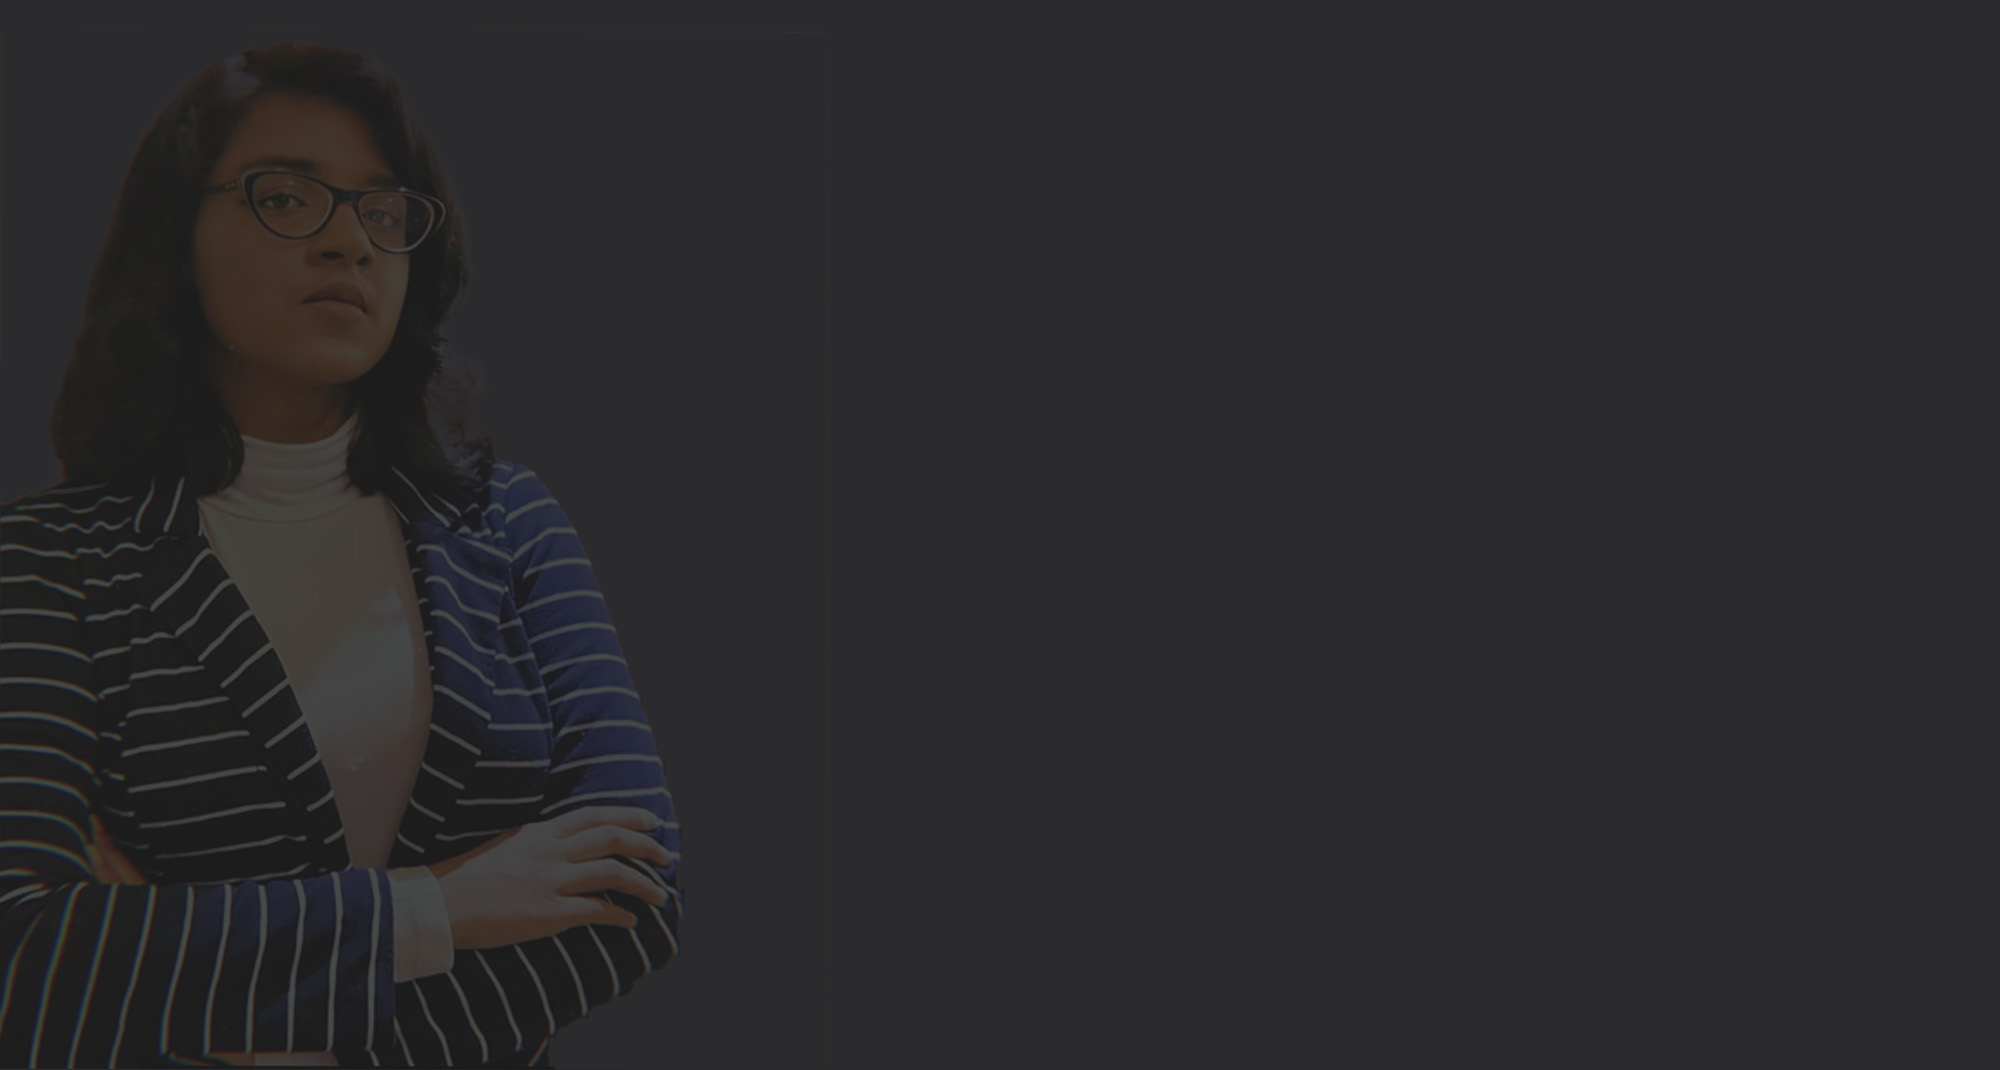
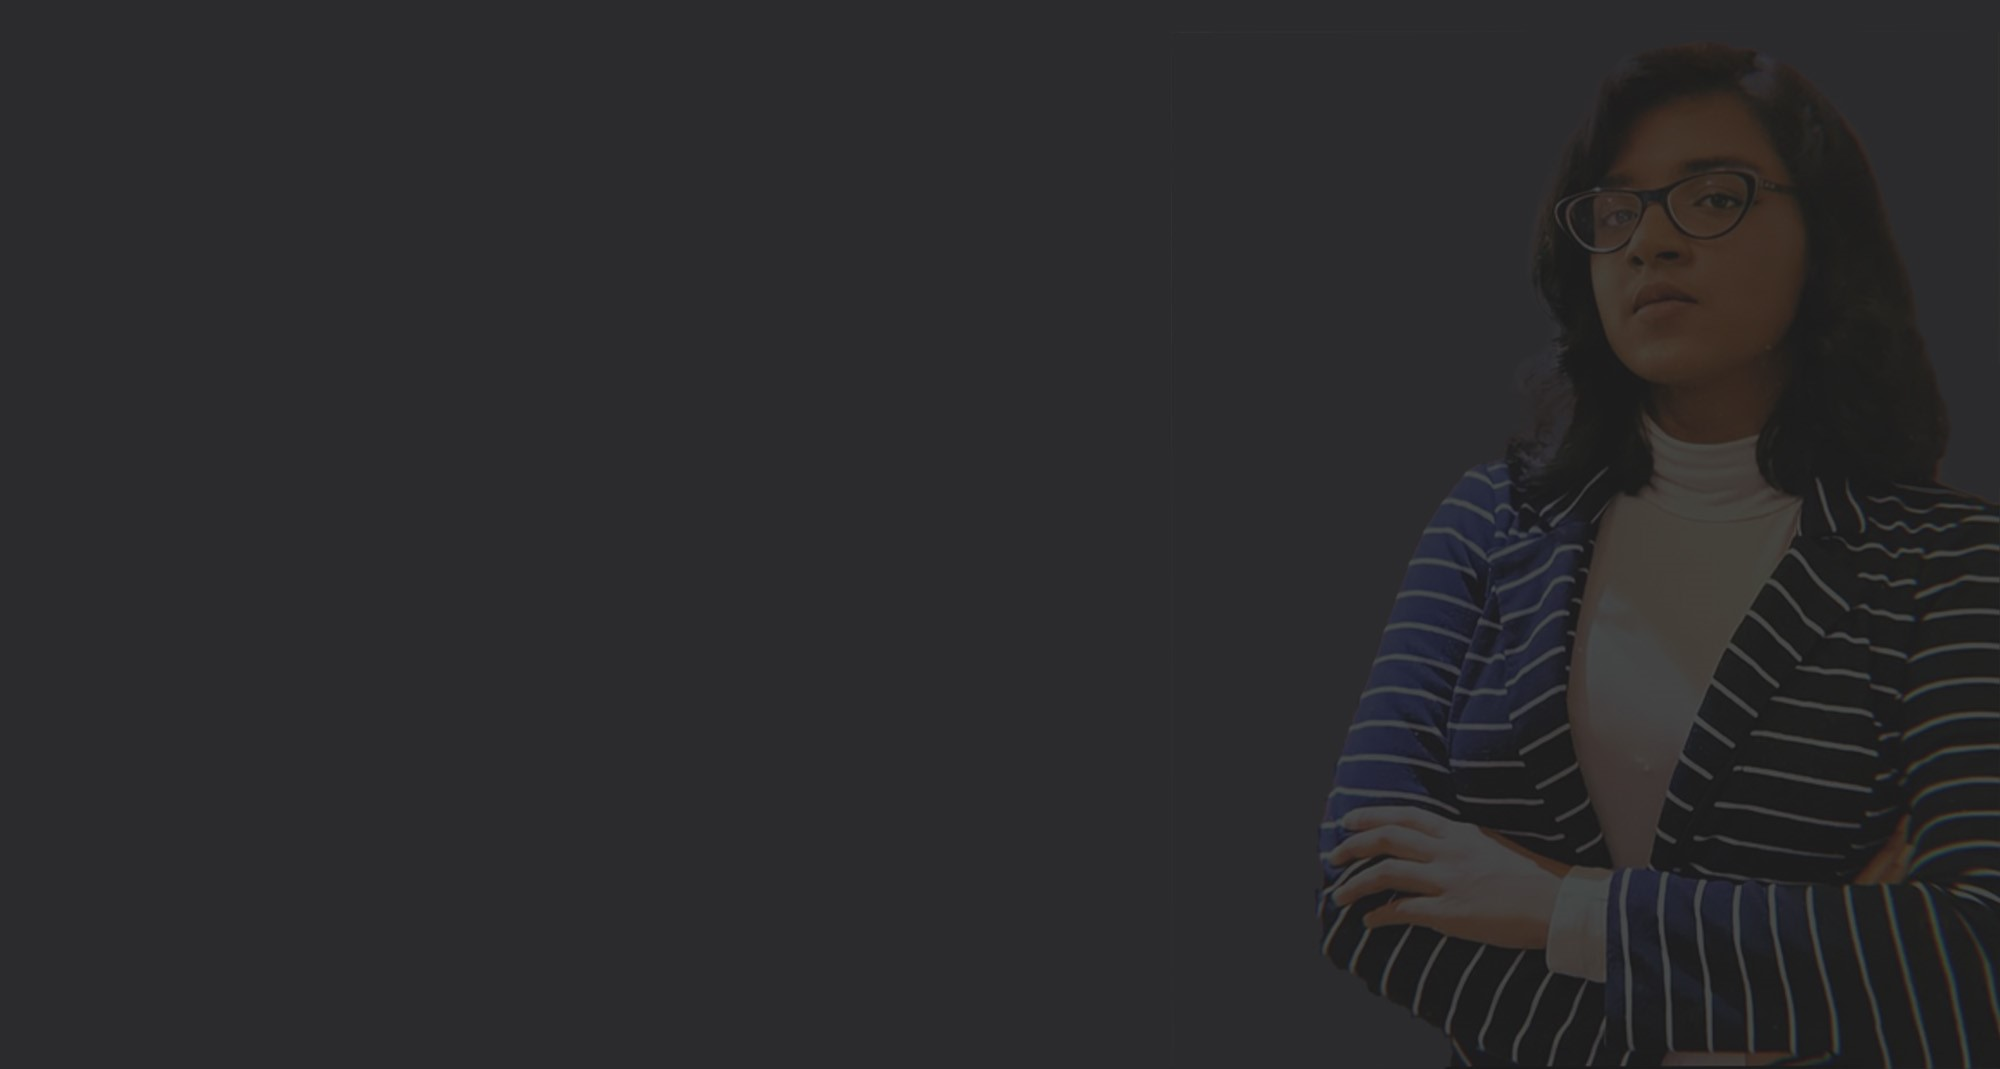
header image

diff --git a/css/styles.css b/css/styles.css
@@ -377,6 +377,7 @@ input[type='checkbox'] {
 	font-size: 0.875rem;
 	line-height: 0.875rem;
 	box-shadow: 0 1px 6px 0 rgba(0, 0, 0, 0.025);
+	margin-top: 0;
 }
 
 .navbar .navbar-brand {
@@ -521,7 +522,7 @@ input[type='checkbox'] {
 .header {
 	padding-top: 7rem;
 	padding-bottom: 5.5rem;
-	background: linear-gradient(rgba(0, 0, 0, 0.1), rgba(0, 0, 0, 0.1)), url('../images/header-background.jpg') center center no-repeat;
+	background: linear-gradient(rgba(0, 0, 0, 0.1), rgba(0, 0, 0, 0.1)), url('../images/header-background.jpg') right center no-repeat;
 	background-size: cover;
 	text-align: left;
 }
@@ -529,6 +530,7 @@ input[type='checkbox'] {
 .header .h1-large {
 	margin-bottom: 1.75rem;
 	color: #ffffff;
+	text-align: left;
 }
 
 .header .btn-solid-lg:hover {
@@ -537,7 +539,7 @@ input[type='checkbox'] {
 }
 
 .header .btn-outline-lg {
-	padding: 1.625rem 1.625rem 1.625rem 1.625rem;
+	/* padding: 1.625rem 1.625rem 1.625rem 1.625rem; */
 	border: none;
 	color: #ffffff;
 }

diff --git a/index.html b/index.html
@@ -2,7 +2,7 @@
 <html lang="en">
 <head>
     <meta charset="utf-8">
-    <meta name="viewport" content="width=device-width, initial-scale=1, shrink-to-fit=no">
+    <meta name="viewport" content="width=device-width, initial-scale=1.0>
     
     <!-- SEO Meta Tags -->
     <meta name="description" content="Your description">
